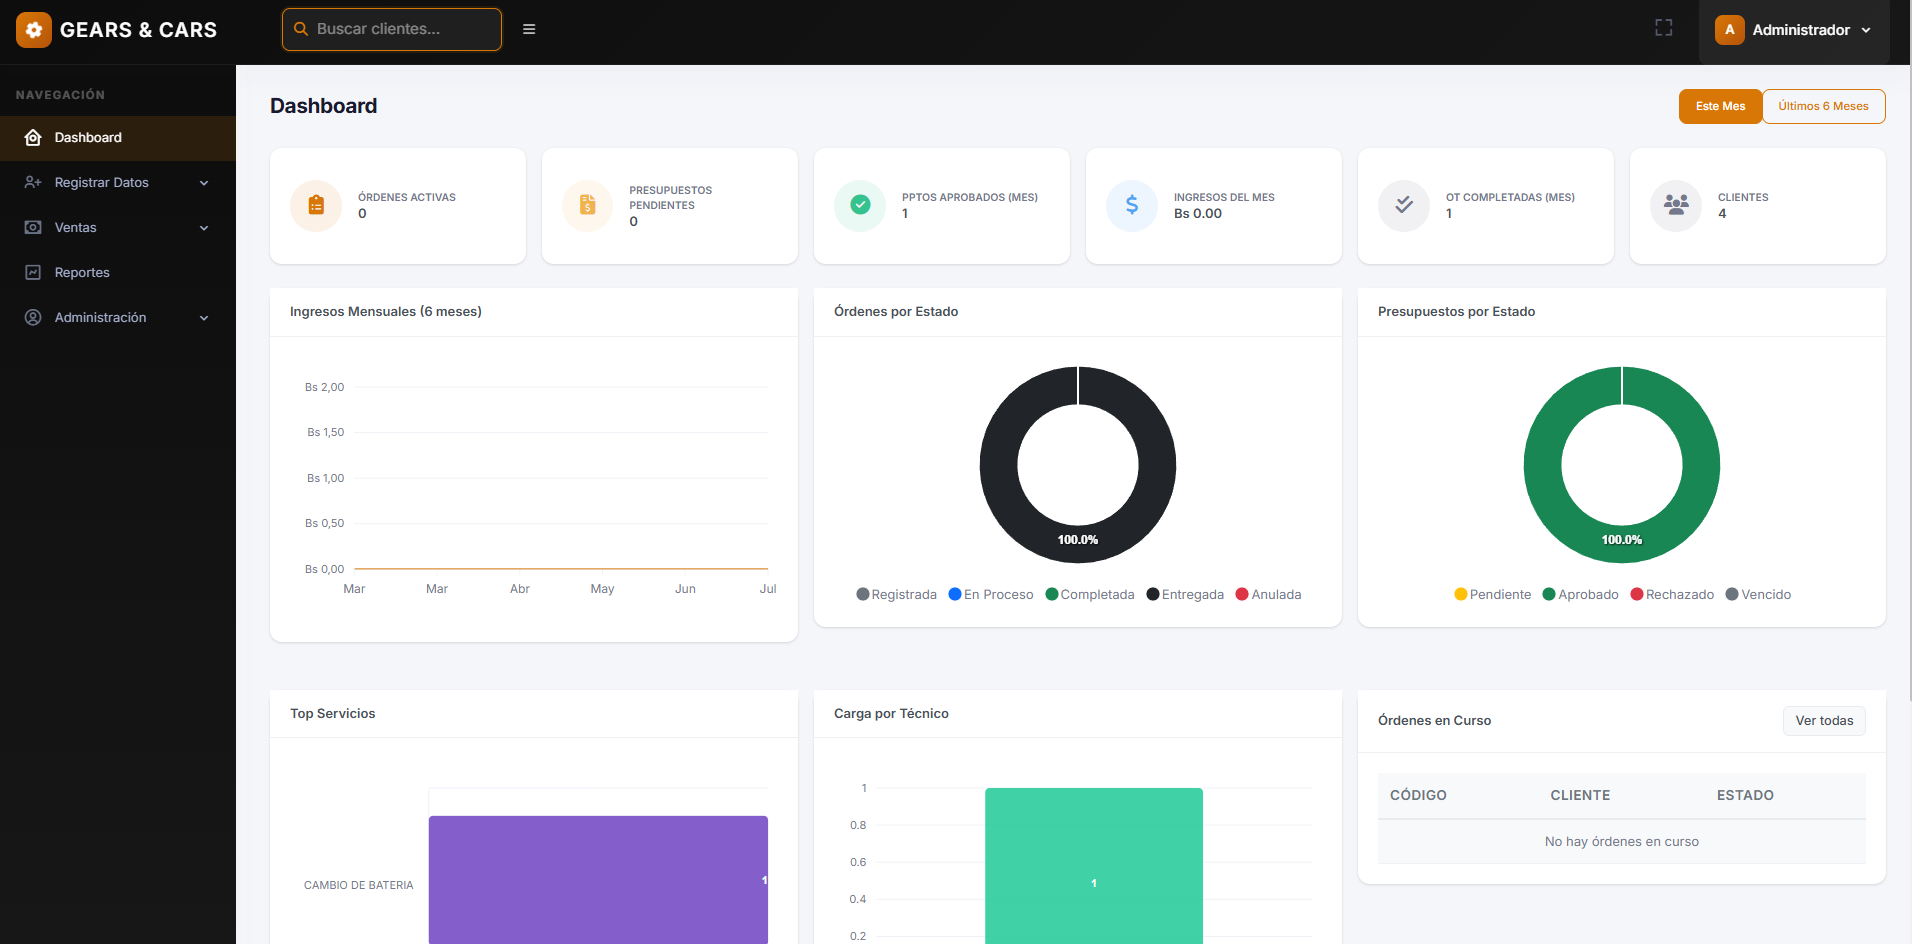
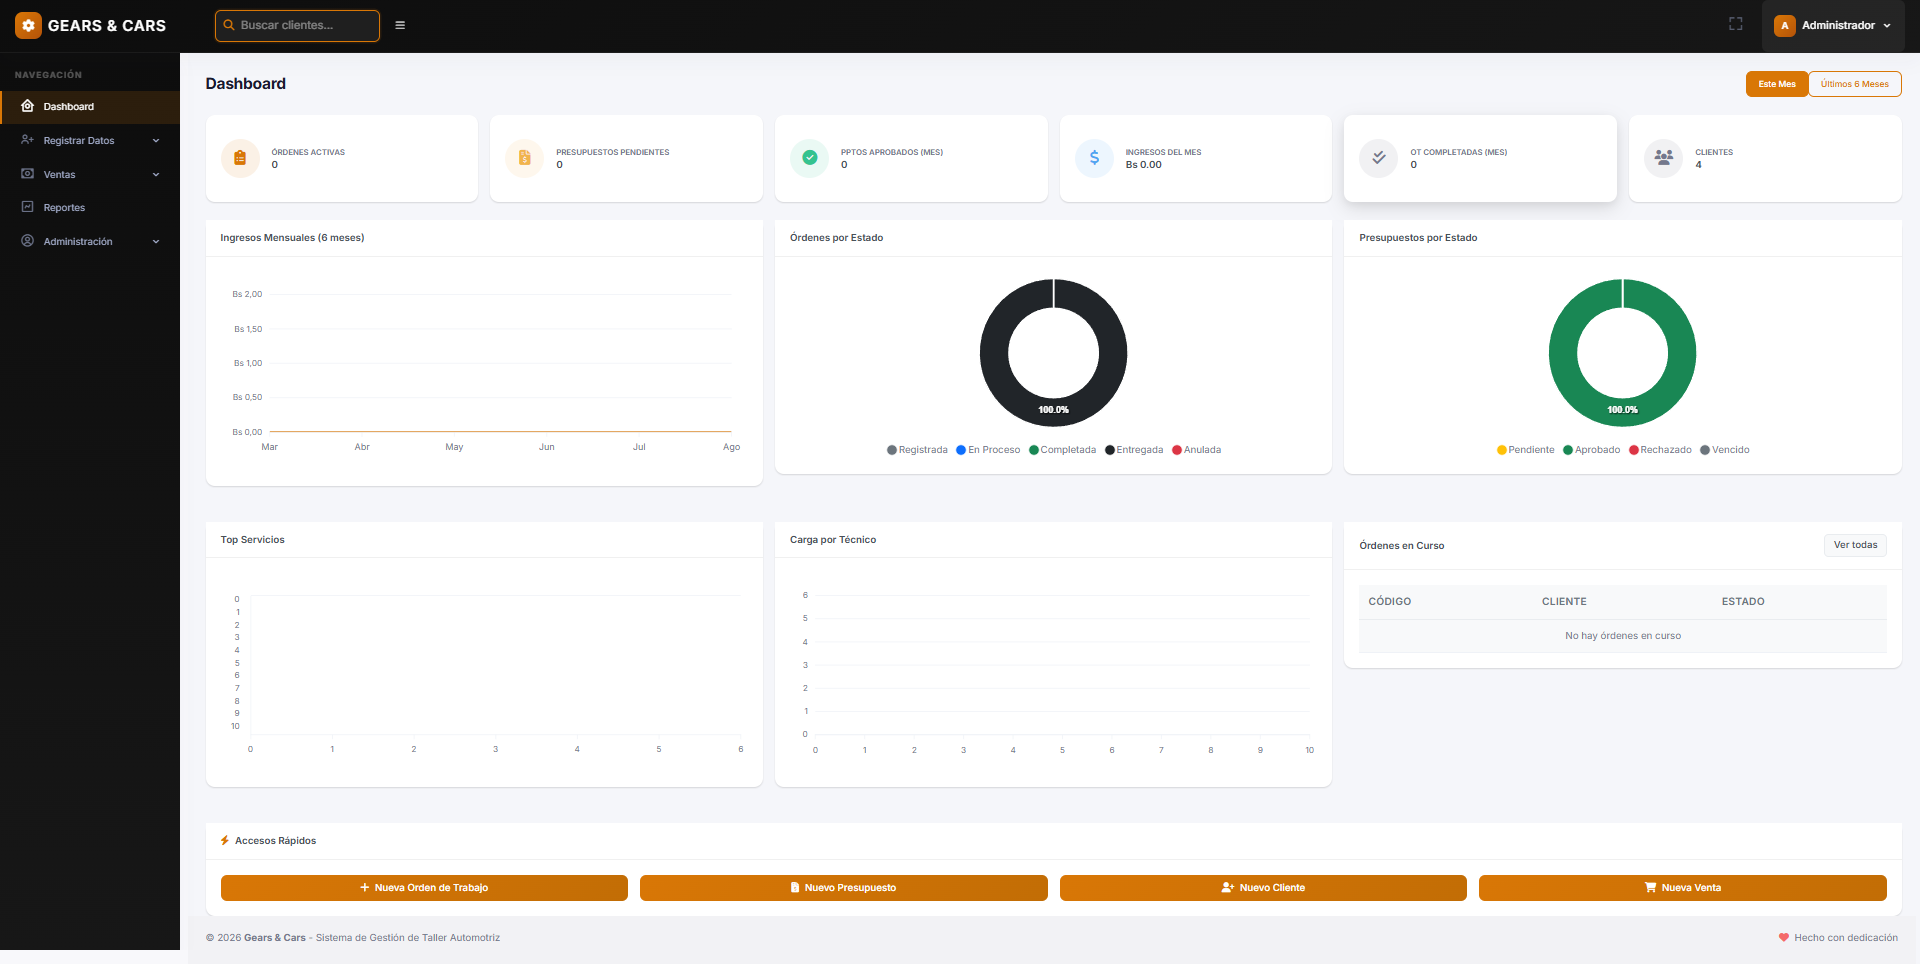
Vercel - Deploy.8

diff --git a/public/partials/projects.html b/public/partials/projects.html
@@ -1,7 +1,10 @@
 <!-- ================================
      PROJECTS SECTION
      ================================ -->
-<section id="projects" class="px-4 sm:px-6 lg:px-8 max-w-7xl mx-auto">
+<section id="projects" class="px-4 sm:px-6 lg:px-8 max-w-7xl mx-auto"
+  x-data="{ lightbox: null }"
+  x-effect="document.body.style.overflow = lightbox ? 'hidden' : ''"
+  @keydown.escape.window="lightbox = null">
   <div class="text-center mb-16" data-reveal>
     <h2 class="gradient-text text-4xl sm:text-6xl font-heading font-bold mb-4">
       Mis <span class="gradient-text">Proyectos</span>
@@ -18,10 +21,21 @@
 
         <!-- Project 1 -->
         <div class="embla__slide min-w-0 flex-[0_0_70%]">
-          <div class="card-project overflow-hidden group h-full">
-            <div class="relative h-64 overflow-hidden">
+          <div class="card-project overflow-hidden h-full">
+            <div class="relative h-64 overflow-hidden group">
               <img src="img/gearscars.png" alt="Proyecto 1"
-                class="w-full h-full object-cover object-top transition-transform duration-500 group-hover:scale-110" />
+                class="w-full h-full object-cover object-top cursor-pointer group-hover:scale-110 transition-transform duration-500"
+                @click="lightbox = $event.currentTarget.src" />
+              <div class="absolute inset-0 flex items-center justify-center bg-black/50 opacity-0 group-hover:opacity-100 transition-opacity duration-300 pointer-events-none">
+                <span class="flex items-center gap-2 text-white font-heading font-bold text-sm tracking-wide">
+                  <svg xmlns="http://www.w3.org/2000/svg" width="18" height="18" viewBox="0 0 24 24" fill="none"
+                    stroke="currentColor" stroke-width="2" stroke-linecap="round" stroke-linejoin="round">
+                    <circle cx="11" cy="11" r="8" />
+                    <path d="m21 21-4.3-4.3" />
+                  </svg>
+                  Ver imagen completa
+                </span>
+              </div>
             </div>
             <div class="relative h-40 p-4">
               <h3 class="text-lg font-heading gradient-text font-bold mt-2 mb-2">Sistema de Gestión para Taller Eléctrico
@@ -45,10 +59,21 @@
 
         <!-- Project 2 -->
         <div class="embla__slide min-w-0 flex-[0_0_70%]">
-          <div class="card-project overflow-hidden group h-full">
-            <div class="relative h-64 overflow-hidden">
+          <div class="card-project overflow-hidden h-full">
+            <div class="relative h-64 overflow-hidden group">
               <img src="img/sanpedro.png" alt="Proyecto 2"
-                class="w-full h-full object-cover object-top transition-transform duration-500 group-hover:scale-110" />
+                class="w-full h-full object-cover object-top cursor-pointer group-hover:scale-110 transition-transform duration-500"
+                @click="lightbox = $event.currentTarget.src" />
+              <div class="absolute inset-0 flex items-center justify-center bg-black/50 opacity-0 group-hover:opacity-100 transition-opacity duration-300 pointer-events-none">
+                <span class="flex items-center gap-2 text-white font-heading font-bold text-sm tracking-wide">
+                  <svg xmlns="http://www.w3.org/2000/svg" width="18" height="18" viewBox="0 0 24 24" fill="none"
+                    stroke="currentColor" stroke-width="2" stroke-linecap="round" stroke-linejoin="round">
+                    <circle cx="11" cy="11" r="8" />
+                    <path d="m21 21-4.3-4.3" />
+                  </svg>
+                  Ver imagen completa
+                </span>
+              </div>
             </div>
             <div class="relative h-40 p-4">
               <h3 class="text-lg font-heading gradient-text font-bold mt-2 mb-2">Singani SanPedro</h3>
@@ -74,17 +99,28 @@
                       d="m61.262 0c-33.779 0-61.262 27.481-61.262 61.26 0 33.783 27.483 61.263 61.262 61.263 33.778 0 61.265-27.48 61.265-61.263-.001-33.779-27.487-61.26-61.265-61.26zm0 119.715c-32.23 0-58.453-26.223-58.453-58.455 0-32.23 26.222-58.451 58.453-58.451 32.229 0 58.45 26.221 58.45 58.451 0 32.232-26.221 58.455-58.45 58.455z" />
                   </g>
                 </svg>
-                <span>Preview</span></a>
+                <span>Visitar Página</span></a>
             </div>
           </div>
         </div>
 
         <!-- Project 3 -->
         <div class="embla__slide min-w-0 flex-[0_0_70%]">
-          <div class="card-project overflow-hidden group h-full">
-            <div class="relative h-64 overflow-hidden">
+          <div class="card-project overflow-hidden h-full">
+            <div class="relative h-64 overflow-hidden group">
               <img src="img/gearscarsv2.png" alt="Proyecto 2"
-                class="w-full h-full object-cover object-top transition-transform duration-500 group-hover:scale-110" />
+                class="w-full h-full object-cover object-top cursor-pointer group-hover:scale-110 transition-transform duration-500"
+                @click="lightbox = $event.currentTarget.src" />
+              <div class="absolute inset-0 flex items-center justify-center bg-black/50 opacity-0 group-hover:opacity-100 transition-opacity duration-300 pointer-events-none">
+                <span class="flex items-center gap-2 text-white font-heading font-bold text-sm tracking-wide">
+                  <svg xmlns="http://www.w3.org/2000/svg" width="18" height="18" viewBox="0 0 24 24" fill="none"
+                    stroke="currentColor" stroke-width="2" stroke-linecap="round" stroke-linejoin="round">
+                    <circle cx="11" cy="11" r="8" />
+                    <path d="m21 21-4.3-4.3" />
+                  </svg>
+                  Ver imagen completa
+                </span>
+              </div>
             </div>
             <div class="relative h-40 p-4">
               <h3 class="text-lg font-heading gradient-text font-bold mt-2 mb-2">Sistema de Gestión para Taller Eléctrico
@@ -109,10 +145,21 @@
 
         <!-- Project 4 -->
         <div class="embla__slide min-w-0 flex-[0_0_70%]">
-          <div class="card-project overflow-hidden group h-full">
-            <div class="relative h-64 overflow-hidden">
+          <div class="card-project overflow-hidden h-full">
+            <div class="relative h-64 overflow-hidden group">
               <img src="img/kumyy.png" alt="Proyecto 2"
-                class="w-full h-full object-cover object-top transition-transform duration-500 group-hover:scale-110" />
+                class="w-full h-full object-cover object-top cursor-pointer group-hover:scale-110 transition-transform duration-500"
+                @click="lightbox = $event.currentTarget.src" />
+              <div class="absolute inset-0 flex items-center justify-center bg-black/50 opacity-0 group-hover:opacity-100 transition-opacity duration-300 pointer-events-none">
+                <span class="flex items-center gap-2 text-white font-heading font-bold text-sm tracking-wide">
+                  <svg xmlns="http://www.w3.org/2000/svg" width="18" height="18" viewBox="0 0 24 24" fill="none"
+                    stroke="currentColor" stroke-width="2" stroke-linecap="round" stroke-linejoin="round">
+                    <circle cx="11" cy="11" r="8" />
+                    <path d="m21 21-4.3-4.3" />
+                  </svg>
+                  Ver imagen completa
+                </span>
+              </div>
             </div>
             <div class="relative h-40 p-4">
               <h3 class="text-lg font-heading gradient-text font-bold mt-2 mb-2">Kumyy</h3>
@@ -138,7 +185,7 @@
                       d="m61.262 0c-33.779 0-61.262 27.481-61.262 61.26 0 33.783 27.483 61.263 61.262 61.263 33.778 0 61.265-27.48 61.265-61.263-.001-33.779-27.487-61.26-61.265-61.26zm0 119.715c-32.23 0-58.453-26.223-58.453-58.455 0-32.23 26.222-58.451 58.453-58.451 32.229 0 58.45 26.221 58.45 58.451 0 32.232-26.221 58.455-58.45 58.455z" />
                   </g>
                 </svg>
-                <span>Preview</span></a>
+                <span>Visitar Pagina</span></a>
             </div>
           </div>
         </div>
@@ -164,4 +211,16 @@
       </button>
     </div>
   </div>
+
+  <!-- Lightbox: imagen completa -->
+  <template x-if="lightbox">
+    <div class="fixed inset-0 z-100 flex items-center justify-center bg-black/85 backdrop-blur-sm p-4"
+      @click="lightbox = null" role="dialog" aria-modal="true">
+      <button type="button"
+        class="absolute top-4 right-4 text-white/80 hover:text-white text-4xl leading-none transition-transform duration-300 hover:scale-110"
+        @click="lightbox = null" aria-label="Cerrar">&times;</button>
+      <img :src="lightbox" @click.stop alt="Vista previa completa del proyecto"
+        class="max-w-full max-h-[90vh] object-contain rounded-xl shadow-2xl" />
+    </div>
+  </template>
 </section>

diff --git a/public/partials/contact.html b/public/partials/contact.html
@@ -30,7 +30,7 @@
           </div>
           <div>
             <p class="text-white/50 text-sm">Email</p>
-            <a href="kevincarrillo1609@gmail.com"
+            <a href="mailto:kevincarrillo1609@gmail.com"
               class="text-white hover:text-amber-400 transition-colors">kevincarrillo1609@gmail.com</a>
           </div>
         </div>
@@ -75,14 +75,31 @@
         nombre: '',
         email: '',
         mensaje: '',
-        enviado: false,
-        enviar() {
-          if (this.nombre && this.email && this.mensaje) {
-            this.enviado = true;
-            setTimeout(() => { this.enviado = false }, 3000);
-            this.nombre = '';
-            this.email = '';
-            this.mensaje = '';
+        estado: 'idle',
+        errorMsg: '',
+        async enviar() {
+          if (!this.nombre || !this.email || !this.mensaje) return;
+          this.estado = 'enviando';
+          try {
+            const res = await fetch('https://fo', {
+              method: 'POST',
+              headers: { 'Accept': 'application/json', 'Content-Type': 'application/json' },
+              body: JSON.stringify({ name: this.nombre, _replyto: this.email, message: this.mensaje })
+            });
+            if (res.ok) {
+              this.estado = 'enviado';
+              this.nombre = '';
+              this.email = '';
+              this.mensaje = '';
+              setTimeout(() => { this.estado = 'idle' }, 4000);
+            } else {
+              const data = await res.json();
+              this.estado = 'error';
+              this.errorMsg = data.errors?.map(e => e.message).join(', ') || 'Error al enviar. Inténtalo de nuevo.';
+            }
+          } catch {
+            this.estado = 'error';
+            this.errorMsg = 'No se pudo enviar. Revisa tu conexión.';
           }
         }
       }">
@@ -101,10 +118,15 @@
             required></textarea>
         </div>
 
-        <button type="submit" class="btn-glow w-full text-black relative z-10" :class="enviado && 'bg-green-500'">
-          <span x-show="!enviado">Enviar Mensaje</span>
-          <span x-show="enviado">Mensaje Enviado!</span>
+        <button type="submit" class="btn-glow w-full text-black relative z-10"
+          :class="estado === 'enviado' && 'bg-green-500'"
+          :disabled="estado === 'enviando'">
+          <span x-show="estado !== 'enviado' && estado !== 'enviando'">Enviar Mensaje</span>
+          <span x-show="estado === 'enviando'">Enviando...</span>
+          <span x-show="estado === 'enviado'">¡Mensaje Enviado!</span>
         </button>
+        <p x-show="estado === 'error'" x-text="errorMsg"
+          class="text-red-400 text-sm text-center"></p>
       </form>
     </div>
   </div>
